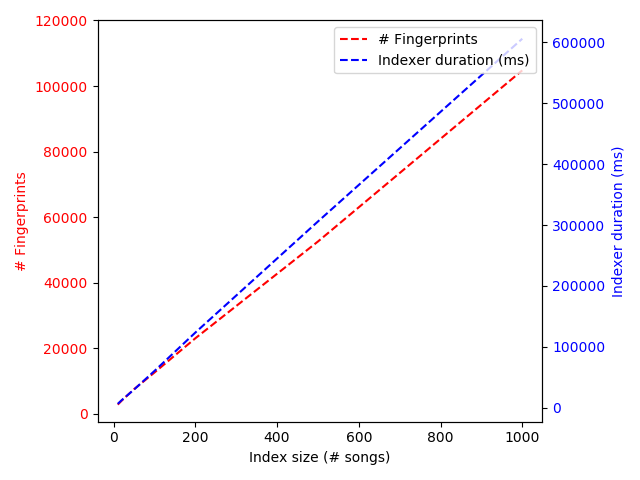
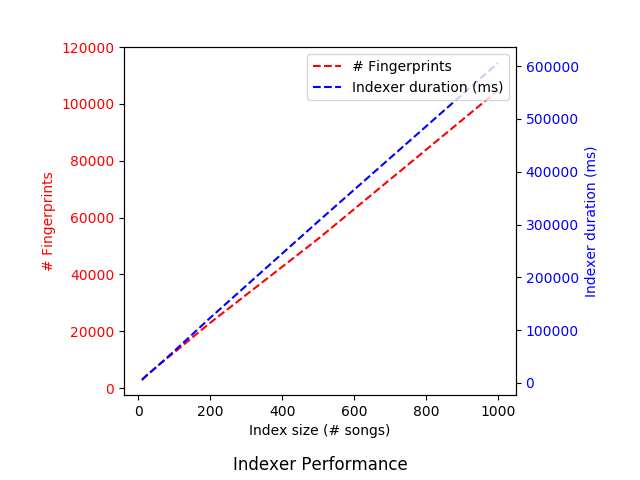
Added missing titles on performance plots

diff --git a/analyses/scripts/plots/generate_performance_plot.py b/analyses/scripts/plots/generate_performance_plot.py
@@ -7,6 +7,7 @@ import matplotlib
 matplotlib.use('TkAgg')
 import matplotlib.pyplot as plt
 import numpy as np
+from os import path
 
 
 def main():
@@ -28,6 +29,18 @@ def main():
         type=str)
     args = parser.parse_args()
 
+    if not path.exists(args.inputfilepath):
+        print(f"Error: {args.inputfilepath} does not exist")
+        exit(1)
+
+    if path.exists(args.outputplotindexerpath):
+        print(f"Error: {args.outputplotindexerpath} already exists")
+        exit(1)
+
+    if path.exists(args.outputplotmatchespath):
+        print(f"Error: {args.outputplotmatchespath} already exists")
+        exit(1)
+
     with open(args.inputfilepath) as input_file:
         input_file_contents = list(
             map(lambda line: line.strip().split(" "), input_file.readlines()))
@@ -43,11 +56,12 @@ def main():
         make_plot(plt_index_sizes, "Index size (# songs)",
                   plt_index_fingerprints, "# Fingerprints",
                   plt_indexer_durations, "Indexer duration (ms)",
-                  args.outputplotindexerpath)
+                  "Indexer Performance", args.outputplotindexerpath)
         make_plot(plt_index_sizes, "Index size (# songs)",
                   plt_index_fingerprints, "# Fingerprints",
                   plt_matcher_durations_averages,
-                  "Matcher average duration (ms)", args.outputplotmatchespath)
+                  "Matcher average duration (ms)", "Matcher Performance",
+                  args.outputplotmatchespath)
 
 
 def align_yaxis(ax1, v1, ax2, v2):
@@ -71,7 +85,7 @@ def adjust_yaxis(ax, ydif, v):
     ax.set_ylim(nminy + v, nmaxy + v)
 
 
-def make_plot(xs, xs_label, ys1, ys_label1, ys2, ys_label2, file_name):
+def make_plot(xs, xs_label, ys1, ys_label1, ys2, ys_label2, title, file_name):
     figure, axis1 = plt.subplots()
     axis1.set_xlabel(xs_label)
     axis1.set_ylabel(ys_label1, color="red")
@@ -87,7 +101,8 @@ def make_plot(xs, xs_label, ys1, ys_label1, ys2, ys_label2, file_name):
 
     align_yaxis(axis1, 2700, axis2, 5000)
 
-    figure.tight_layout()
+    figure.tight_layout(pad=3.0, w_pad=3.0, h_pad=3.0)
+    figure.suptitle(title, fontsize=12, y=0.05)
     plt.legend(handles=[handle1, handle2], loc=1)
 
     plt.savefig(file_name, transparent=True)
